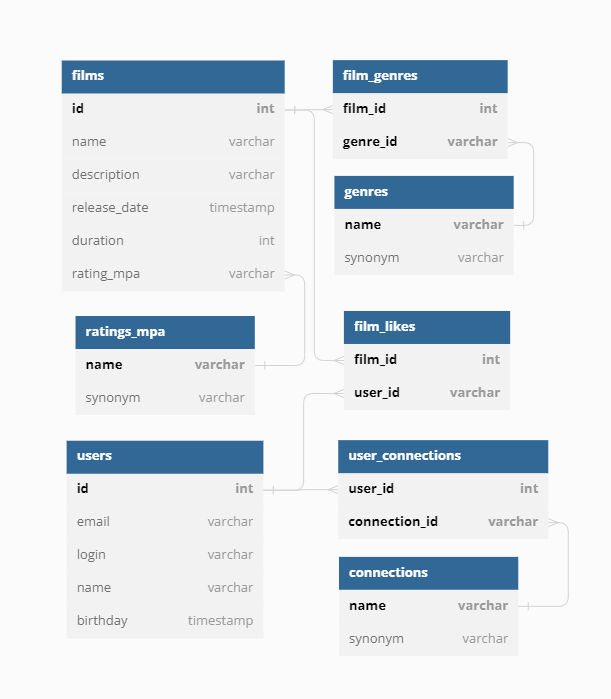
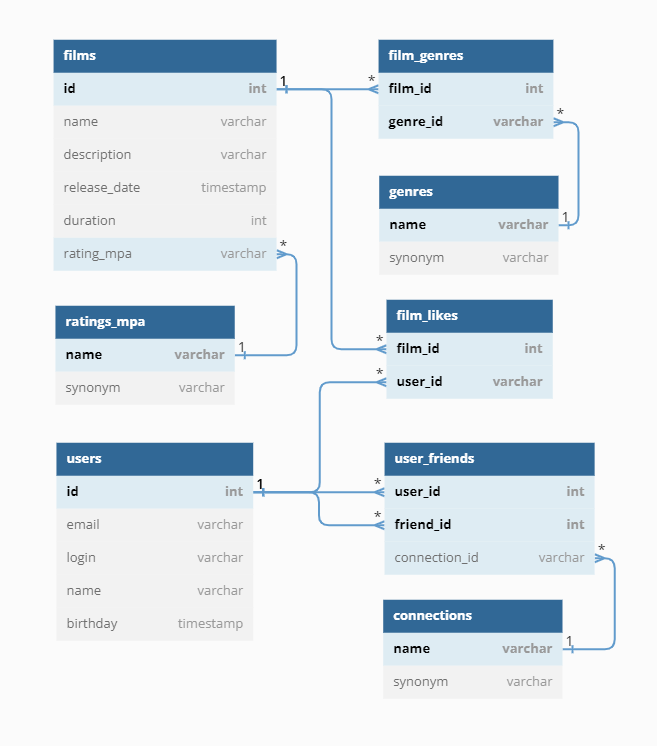
feat: Добавить новые атрибуты в классы User и Films. Добавить ER схему

diff --git a/src/main/java/ru/yandex/practicum/filmorate/model/Film.java b/src/main/java/ru/yandex/practicum/filmorate/model/Film.java
@@ -25,6 +25,10 @@ public class Film {
     private int duration;
     private Set<Long> likes = new HashSet<>();
 
+    private Set<Genre> genres = new HashSet<>();
+
+    private RatingMPA ratingMPA;
+
     public Film(String name, String description, LocalDate releaseDate, int duration) {
         this.name = name;
         this.description = description;
@@ -42,5 +46,46 @@ public class Film {
 
     public void dislike(long id) {
         likes.remove(id);
+    }
+
+    public void addGenre(Genre genre) {
+        genres.add(genre);
+    }
+
+    public void removeGenre(Genre genre) {
+        genres.remove(genre);
+    }
+
+    public enum RatingMPA {
+        G("G"), PG("PG") ,PG13("PG-13"), R("R") ,NC17("NC-17");
+
+        private final String synonym;
+
+        RatingMPA(String s) {
+            synonym = s;
+        }
+
+        public String toString() {
+            return this.synonym;
+        }
+    }
+
+    public enum Genre {
+        Comedy("Комедия"),
+        Dram("Драма"),
+        Animation("Мультфильм"),
+        Thriller("Триллер"),
+        Documentary("Документальный"),
+        Action("Боевик");
+
+        private final String synonym;
+
+        Genre(String s) {
+            synonym = s;
+        }
+
+        public String toString() {
+            return this.synonym;
+        }
     }
 }

diff --git a/src/main/java/ru/yandex/practicum/filmorate/model/User.java b/src/main/java/ru/yandex/practicum/filmorate/model/User.java
@@ -5,8 +5,7 @@ import lombok.EqualsAndHashCode;
 
 import javax.validation.constraints.*;
 import java.time.LocalDate;
-import java.util.HashSet;
-import java.util.Set;
+import java.util.HashMap;
 import java.util.concurrent.atomic.AtomicLong;
 
 @Data
@@ -24,7 +23,7 @@ public class User {
     private String name;
     @PastOrPresent
     private LocalDate birthday;
-    private Set<Long> friends = new HashSet<>();
+    private HashMap<Long, Connection> friends = new HashMap<>();
 
     public User(String email, String login, String name, LocalDate birthday) {
         this.email = email;
@@ -42,10 +41,25 @@ public class User {
     }
 
     public void addToFriends(long id) {
-        friends.add(id);
+        friends.put(id, Connection.Unconfirmed);
     }
 
     public void deleteFromFriends(long id) {
         friends.remove(id);
+    }
+
+    public enum Connection {
+        Unconfirmed("неподтверждённая "),
+        Confirmed("подтверждённая ");
+
+        private final String synonym;
+
+        Connection(String s) {
+            synonym = s;
+        }
+
+        public String toString() {
+            return this.synonym;
+        }
     }
 }

diff --git a/src/main/java/ru/yandex/practicum/filmorate/service/UserService.java b/src/main/java/ru/yandex/practicum/filmorate/service/UserService.java
@@ -63,15 +63,15 @@ public class UserService {
 
     public List<User> getUserFriends(int userId) {
         User user = getUserById(userId);
-        return userStorage.findById(user.getFriends());
+        return userStorage.findById(user.getFriends().keySet());
     }
 
     public List<User> getCommonFriends(int userId, int otherId) {
         User user      = getUserById(userId);
         User otherUser = getUserById(otherId);
 
-        Set<Long> intersection = new HashSet<>(user.getFriends());
-        intersection.retainAll(otherUser.getFriends());
+        Set<Long> intersection = new HashSet<>(user.getFriends().keySet());
+        intersection.retainAll(otherUser.getFriends().keySet());
 
         return userStorage.findById(intersection);
     }

diff --git a/README.md b/README.md
@@ -1,2 +1,53 @@
 # java-filmorate
-Template repository for Filmorate project.
+![ER](/assets/filmorate-ER.png)
+
+Example queries
+
+1. getPopularFilms
+
+
+    Select 
+        film_likes.films_id,
+        COUNT(DISTINCT film_likes.user_id) AS likes,
+        films.name,
+        films.description,
+        films.release_date,
+        films.duration,
+        films.rating_mpa
+    FROM 
+        film_likes AS film_likes
+        LEFT JOIN films AS films
+            ON film_likes.films_id = films.id
+    GROUP BY 
+        film_likes.films_id,
+        films.name,
+        films.description,
+        films.release_date,
+        films.duration,
+        films.rating_mpa
+    ORDER BY 
+        COUNT(DISTINCT film_likes.user_id) DESC
+    LIMIT 10
+
+2. getCommonFriends
+
+
+    Select 
+        user_friends.friend_id,
+        friends.email,
+        friends.login,
+        friends.name,
+        friends.birthday
+    FROM 
+        user_friends AS user_friends
+        JOIN user_friends AS other_user_friends
+            ON user_friends.friend_id = other_user_friends.friend_id
+        LEFT JOIN users AS friends
+            ON user_friends.friend_id = friends.id
+    WHERE 
+        user_friends.user_id = @id
+        AND other_user_friends.user_id = @other_id
+
+    
+
+
